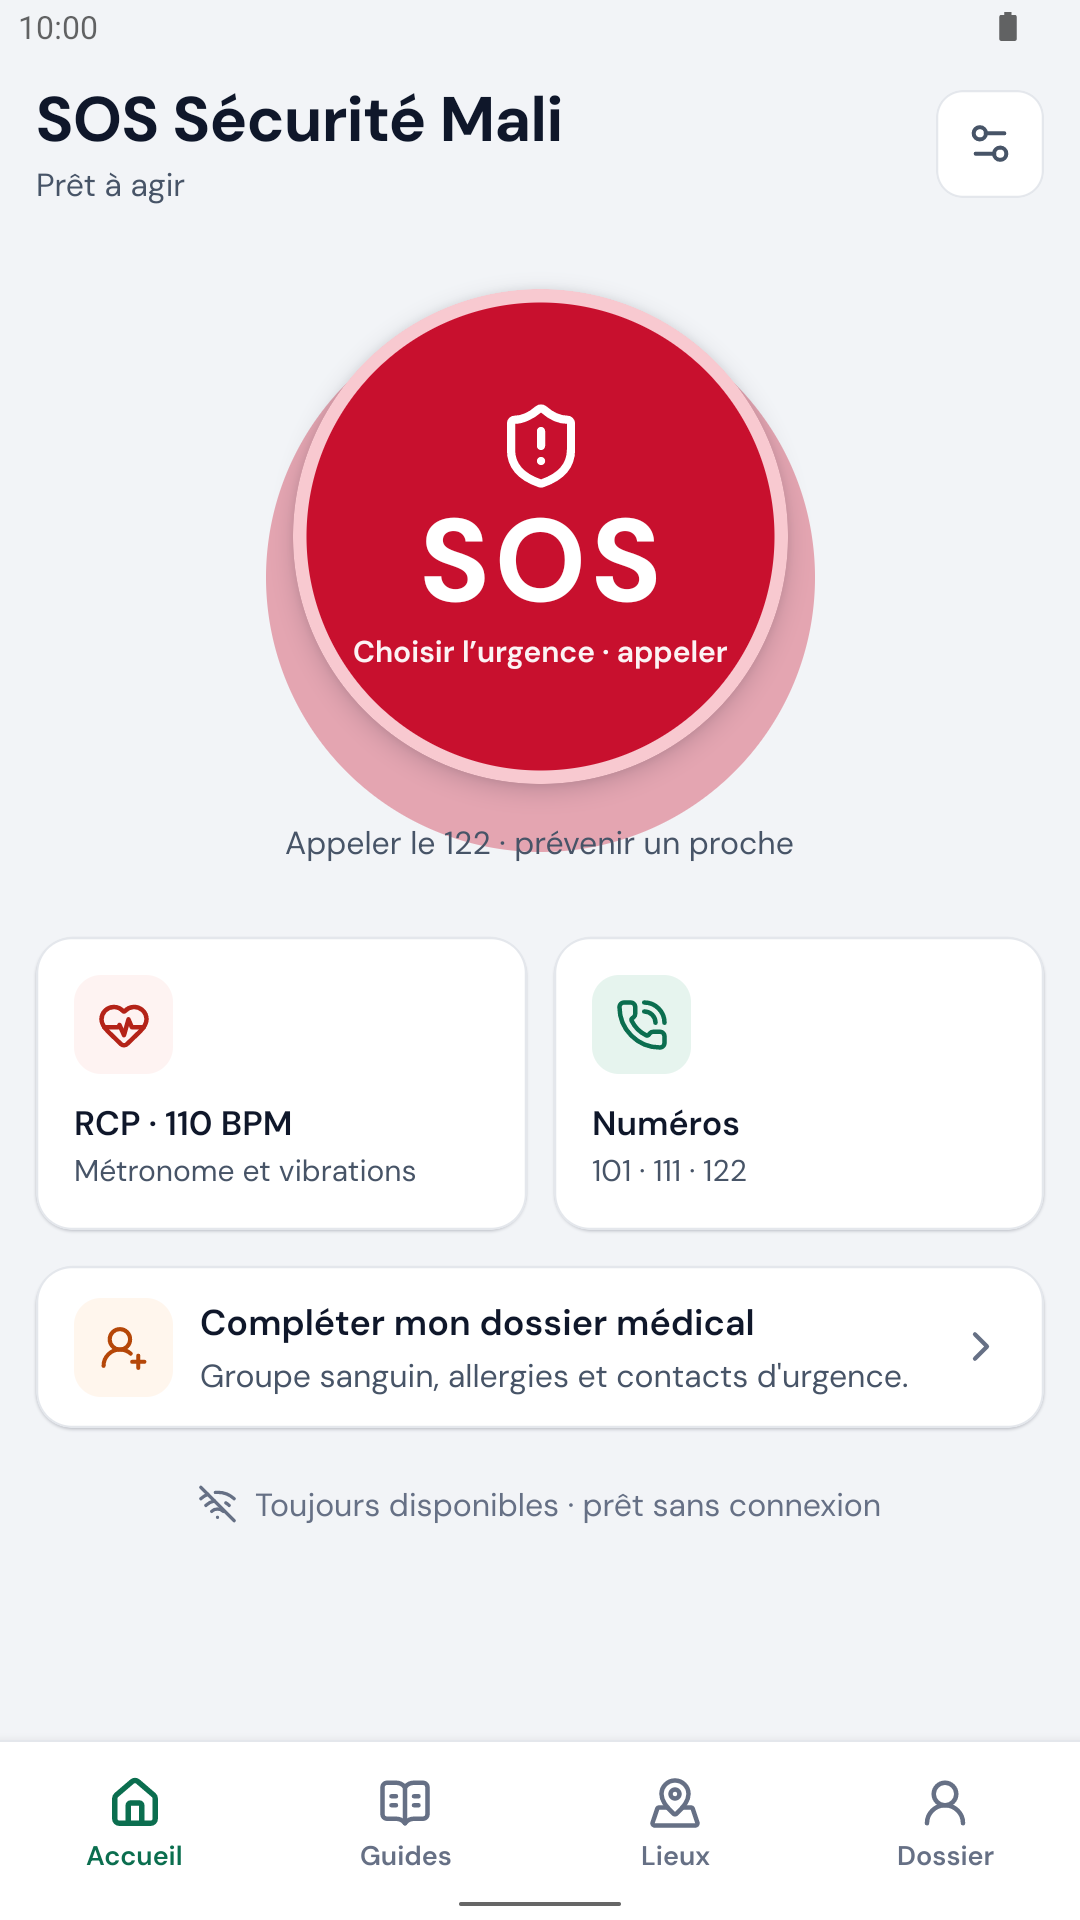
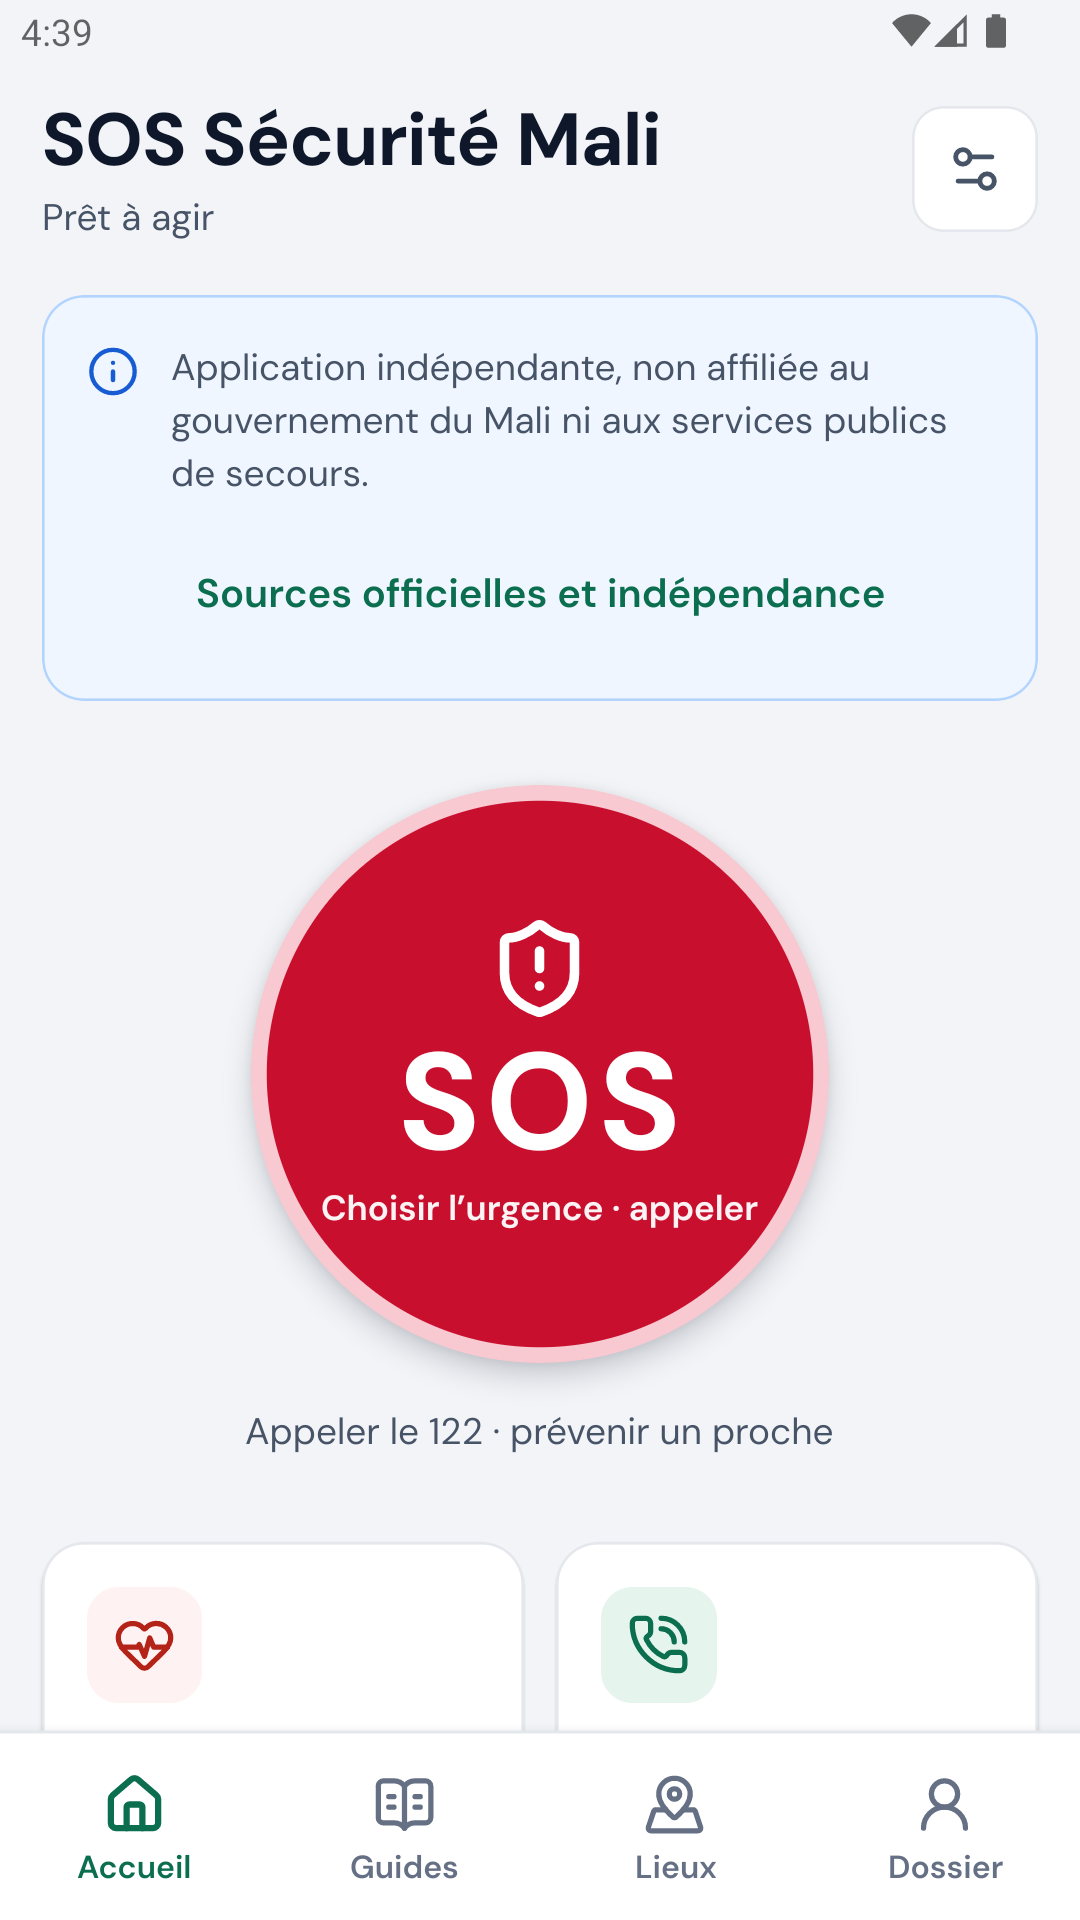
Documente la recette Android et actualise les captures Play

diff --git a/docs/RELEASE_1.0.1_7.md b/docs/RELEASE_1.0.1_7.md
@@ -1,0 +1,176 @@
+# SOS Sécurité Mali — version Android 1.0.1 (7)
+
+État documenté le **10 novembre 2026**. Package : `ml.sossecurite.app`.
+
+Le nouvel AAB cloud a passé les contrôles statiques et les parcours natifs ciblés
+décrits ci-dessous. La version **1.0.1 (7)** est accessible en test interne Play
+depuis le **10 novembre à 16 h 48 UTC**. La production du code 7, **release 2**, est préparée et enregistrée dans la vue
+d’ensemble de la publication, sans envoi à l’examen à l’heure de cette rédaction.
+
+## Motif et périmètre
+
+Google Play a refusé la production **1.0.0 (5)** le 10 novembre pour les informations
+gouvernementales présentées dans l’application : les références doivent être
+accessibles et l’indépendance vis-à-vis du gouvernement doit être explicite.
+La version de performances **1.0.1 (6)** était déjà en test interne depuis le
+6 novembre à 19 h 32 ; elle ne doit pas être confondue avec la production refusée.
+
+Le correctif rend la mention d’indépendance visible sur l’accueil et l’annuaire,
+ajoute la page Sources, relie les numéros à leurs références et distingue les
+informations historiques des références courantes. Le **80 333**, attesté par
+une publication du 21 mars 2022, reste identifié comme **« Contact à confirmer »**
+dans l’annuaire et est retiré des recommandations SOS automatiques.
+Voir [DATA_SOURCES.md](DATA_SOURCES.md) pour les références et leurs limites.
+
+Cette intervention ne change pas le contenu médical, le relais Bluetooth, le
+schéma de base de données, ni les comptes ou profils utilisateur. Aucune
+validation médicale ou clinique n’est revendiquée.
+
+## Build et provenance
+
+- [Build EAS 2ee1591b-7bbc-48b4-b483-d1481e1dd7ce](https://expo.dev/accounts/dione24/projects/sos-securite-mali/builds/2ee1591b-7bbc-48b4-b483-d1481e1dd7ce),
+  **FINISHED** le **2026-11-10T16:34:35.229Z**.
+- Compilation Android cloud complète avec le profil `production` et
+  `--freeze-credentials` ; aucune nouvelle clé d’upload créée.
+- Sources fonctionnelles : **`1f3f90d`**. EAS a incrémenté localement le code Android
+  de 6 à **7** avant l’archivage. Le commit **`83f4bbc`** a ensuite enregistré cette
+  version ; EAS affiche donc `1f3f90d` comme référence Git de base.
+- Les sept marqueurs de conformité sont présents dans le bundle JavaScript
+  compilé : indépendance, route Sources, accès depuis l’accueil, référence
+  gouvernementale, EDM, SOMAGEP et section historique.
+
+## Artefacts contrôlés
+
+| Artefact | Taille | SHA-256 |
+| --- | ---: | --- |
[2 lines of base64/hex data omitted]
+
+L’APK universel a été généré depuis ce nouvel AAB et signé avec la clé d’upload
+existante. Aucun ancien APK n’a été réassemblé pour produire cette version.
+
+| Contrôle statique | Résultat |
+| --- | --- |
+| Identifiant et version | `ml.sossecurite.app`, `1.0.1`, code `7` |
+| Signature AAB | 1 880 entrées de contenu vérifiées, toutes signées par le certificat d’upload attendu |
+| Signature APK | Certificat identique à celui de l’AAB et à la clé existante ; hors Android Debug |
+| Structure du bundle | `bundletool validate` réussi avec bundletool 1.18.3, outil vérifié par son empreinte |
+| Android min / cible | API 24 / API 36 |
+| Drapeaux | `debuggable=false`, `testOnly=false`, `allowBackup=false` |
+| Permissions et services | Permissions interdites absentes, matériel Bluetooth facultatif, scan `neverForLocation`, service BLE `connectedDevice` non exporté, absence de service de localisation en arrière-plan |
+| Pages de 16 Ko | BundleConfig `PAGE_ALIGNMENT_16K`, segments LOAD des 52 bibliothèques ELF64 arm64/x86_64 conformes, ZIP de l’APK vérifié par `zipalign -c -P 16 4` |
+| Contenu natif dérivé | Bibliothèques de l’APK identiques à celles de l’AAB |
+
+Empreinte SHA-256 du certificat d’upload :
+
+`35:44:B2:DD:ED:F5:91:B9:76:24:9A:CE:D8:5B:9A:50:BE:31:F4:EF:EB:56:03:BD:DA:1E:83:72:FF:C0:5D:E1`
+
+Ces contrôles d’alignement sont statiques. Ils ne constituent pas une recette
+d’exécution sur un appareil dont le noyau utilise des pages de 16 Ko.
+
+## Vérifications des sources et du web
+
+- **TypeScript : réussi.**
+- **86 tests réussis sur 14 fichiers.**
+- **Trois scénarios web**, à **deux tailles d’écran**, en thèmes clair et sombre.
+- Références HTTP vérifiées séparément avec réponses **200** ; cette vérification
+  ne prouve pas que le navigateur natif de l’émulateur a affiché les pages.
+- La fiche Play en français (France, `fr-FR`) corrigée a été enregistrée avec
+  **quatre sources courantes**, la référence historique et la mention
+  d’indépendance. La langue de cette fiche ne constitue pas un pays de diffusion.
+
+## Recette native finale ciblée
+
+Les passages retenus ont été réalisés sur un émulateur **API 36** stabilisé,
+configuré avec **4 Go de RAM**, **quatre cœurs virtuels** et rendu GPU hôte.
+Les réglages de priorité du processus hôte ont été appliqués avec
+`taskpolicy -B -t 0 -l 0`. Aucune amélioration de performances n’est déduite de ces
+réglages ou des temps d’attente de l’outillage.
+
+| Passage | Résultat et preuve locale conservée hors Git |
+| --- | --- |
+| Accueil | Mention d’indépendance et accès Sources visibles ; `api36-home-valid.xml` |
+| Sources | Page, mention d’indépendance et première référence gouvernementale visibles ; `api36-sources-valid.xml` |
+| Annuaire | Affichage et accès aux références contrôlés sur une hiérarchie fraîche ; `api36-directory-fresh.xml` |
+| Recherche historique | Recherche `80333`, résultat `80 333`, « Contact à confirmer » et source du 21 mars 2022 ; `api36-historical-result.xml` |
+| Sources hors connexion après redémarrage de l’application | Mode avion activé, Wi-Fi et données mobiles coupés, application arrêtée puis relancée ; page Sources et référence visibles dans `api36-offline-cold-sources.xml` |
+
+L’absence de réseau actif par défaut a été contrôlée séparément côté Android
+(`active default network: none`). La présence locale de la page Sources hors
+connexion ne prouve pas l’ouverture d’un site distant hors ligne. Les XML de la
+page Sources montrent sa partie haute ; ils ne prouvent pas à eux seuls le
+défilement et l’affichage natif de chacune des quatre cartes de sources.
+
+Le lancement hors ligne consigné dans `api36-offline-coldstart.json` retourne
+**`Status: timeout`**, `LaunchState: UNKNOWN` et **`WaitTime: 20760` ms**.
+La page a ensuite été observée sur une capture de hiérarchie fraîche. Ce résultat
+ne fournit **aucun benchmark de démarrage utilisable** et ne justifie aucune
+revendication de gain de vitesse ou de réactivité.
+
+L’émission d’une URI gouvernementale vers Android a été observée dans le journal
+ActivityTaskManager sur API 32. **L’affichage de la page dans le navigateur natif
+n’est pas validé** : le premier démarrage de Chrome n’a pas été finalisé. Cette
+limite est distincte de la vérification HTTP et des parcours web.
+
+Le contrôle de runtime effectué après ces passages, consigné dans
+`api36-final-runtime-proof.json`, indique **aucun ANR depuis le démarrage** de cet
+émulateur API 36. Le journal filtré `AndroidRuntime:E` / `ReactNativeJS:E` est vide.
+Il s’agit d’un constat sur cette exécution ; il ne supprime pas l’ANR API 32
+documenté ci-dessous. Les réseaux de l’émulateur ont ensuite été rétablis.
+
+## Incidents et limites de la validation
+
+Un **ANR réel du code 7** s’est produit sur l’émulateur API 32 le **10 novembre
+à 16:46:29 UTC**, avec un délai d’acquittement d’événement tactile de **5 074 ms**.
+La cause reste **indéterminée**. Le dump pris environ seize secondes plus tard
+montre le main dans une attente ART/JNI lors du traitement vsync, sans identifier
+de propriétaire de verrou ni de cause applicative. Il ne prouve pas une panne
+ART, une faute JavaScript ou un bug applicatif qui aurait été corrigé.
+
+Un premier émulateur API 36, configuré avec **2 Go de RAM**, a ensuite présenté
+un ANR de **SystemUI avant tout lancement de SOS**. Sa charge invitée était
+**41,36 / 17,85 / 6,74** pour quatre cœurs. Cela appuie le constat d’un environnement
+d’émulation saturé pendant son initialisation, sans établir la cause de l’ANR
+précédent. La recette finale décrite ci-dessus a été exécutée après stabilisation
+de l’environnement à 4 Go.
+
+Le premier outil de recette pouvait réutiliser un ancien XML lorsqu’un dump
+UIAutomator ne produisait pas de nouvelle hiérarchie malgré un code de sortie nul.
+Ces premières tentatives ne sont pas retenues comme preuve de navigation.
+L’outil a été corrigé avec un verrou, un délai d’expiration distant et un fichier
+interne unique ; les passages finaux reposent sur des hiérarchies fraîches.
+
+Le bundle EAS **1.0.1 (6)** a également été retéléchargé et validé statiquement.
+Ses **52 bibliothèques ELF64 sont identiques octet par octet** à celles du code 7,
+avec les mêmes permissions et le même certificat. **Aucune comparaison dynamique
+contrôlée des codes 6 et 7 n’a été exécutée** ; les contrôles statiques ne permettent
+donc pas de conclure à l’absence de régression d’exécution.
+
+Aucun appel téléphonique réel, SMS réel, relais BLE entre appareils physiques,
+ni parcours utilisant des données réelles n’a été validé dans cette intervention.
+Aucun visa médical ou clinique n’est ajouté.
+
+## Éléments Play et suite
+
+Le contrôle des éléments de publication passe avec **huit captures**, dont les
+captures mises à jour [01-home.png](../store-assets/screenshots/01-home.png) et
+[08-sources.png](../store-assets/screenshots/08-sources.png), ainsi que l’icône,
+le visuel, la politique de confidentialité et la vidéo FGS existante.
+Cette vidéo a été contrôlée : **107,3 secondes**, **720 × 1666**. Elle ne constitue
+pas une nouvelle preuve de relais Bluetooth physique pour le code 7.
+
+| Étape | État au moment de la rédaction |
+| --- | --- |
+| Test interne 1.0.1 (7) | Accessible depuis le 10 novembre 2026 à 16:48 UTC |
+| Production 1.0.0 (5) | Refusée |
+| Production 1.0.1 (7) | Release 2 préparée et enregistrée, pas encore envoyée à l’examen |
+| Fiche française corrigée | Enregistrée avec sources, historique et indépendance |
+| Distribution publique prévue | Mali uniquement, un pays ; déploiement 100 % confirmé sur le récapitulatif de production |
+| Contrôle ANR/logcat après les passages natifs ci-dessus | Aucun ANR depuis le démarrage de l’émulateur API 36 ; aucun message dans le filtre `AndroidRuntime:E` / `ReactNativeJS:E` |
+| Envoi à l’examen du code 7 | **À compléter : date, heure et résultat observé dans Play Console** |
+| Examen Google | **À compléter ; aucune approbation revendiquée** |
+| Disponibilité publique | **À compléter après vérification effective** |
+
+Les preuves détaillées sont conservées hors Git dans le dossier local de
+validation de cette version. Aucun identifiant de téléchargement temporaire,
+secret, valeur d’environnement ou journal brut n’est publié dans ce document.
